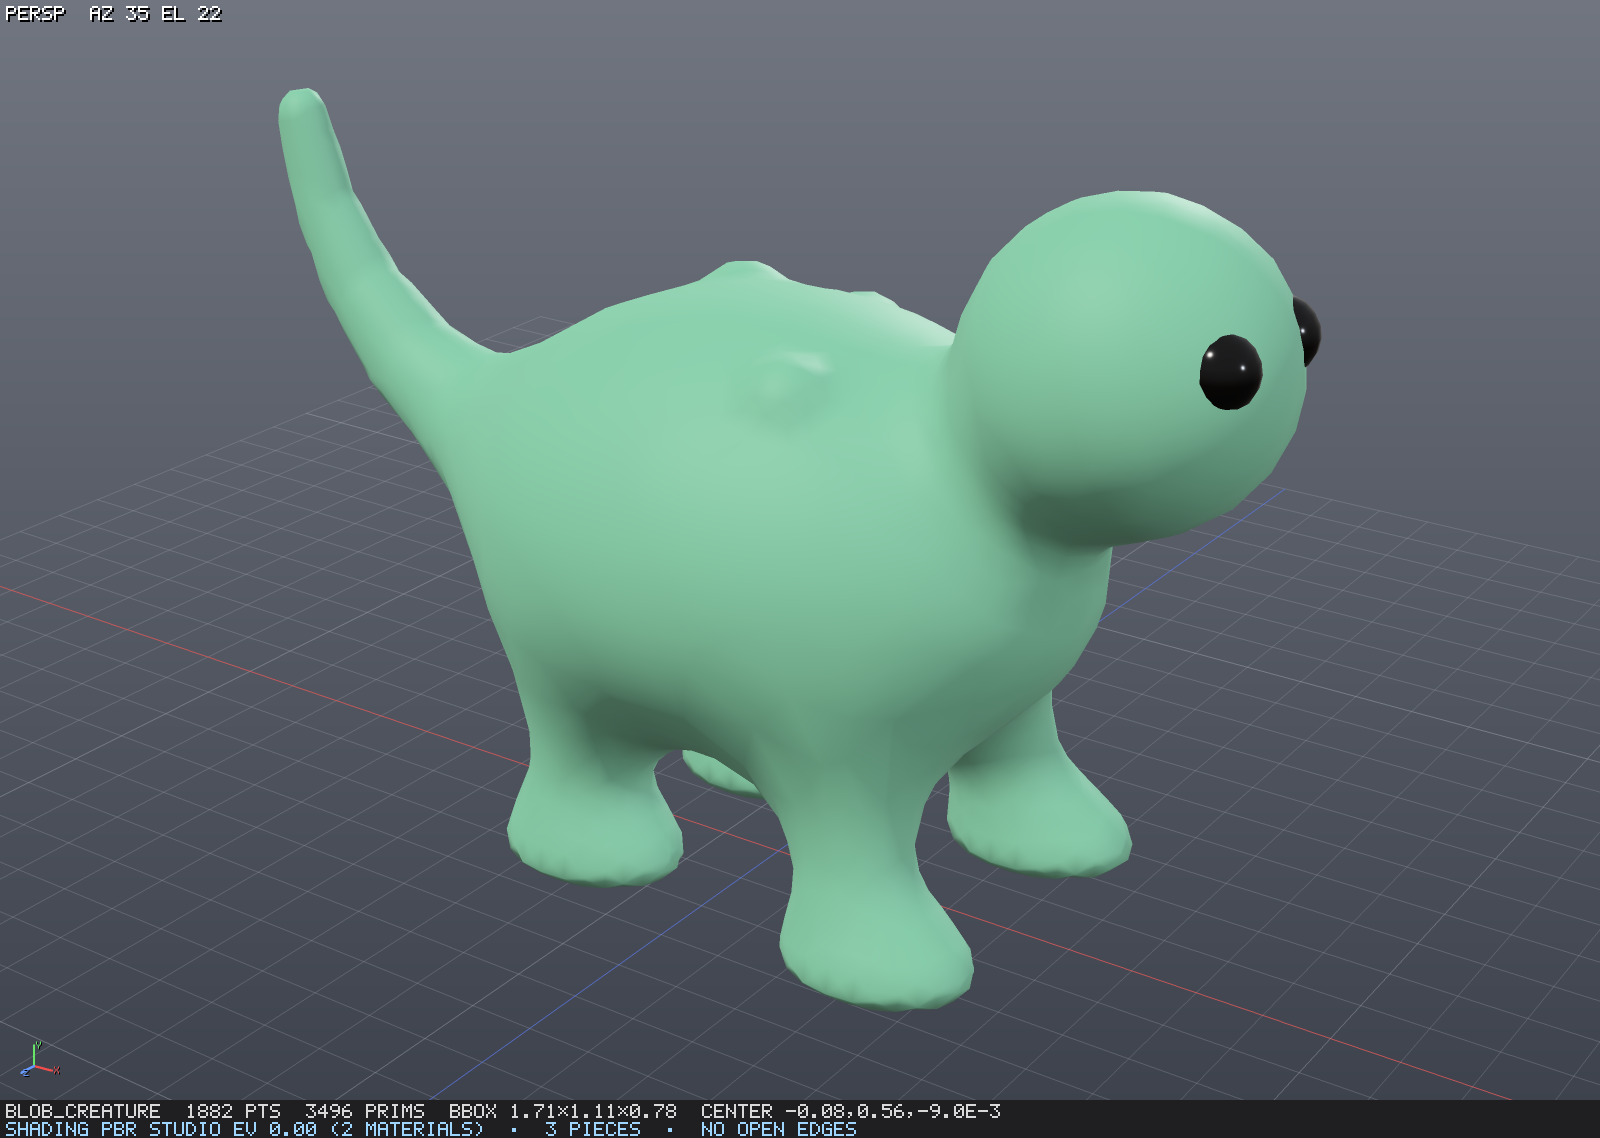
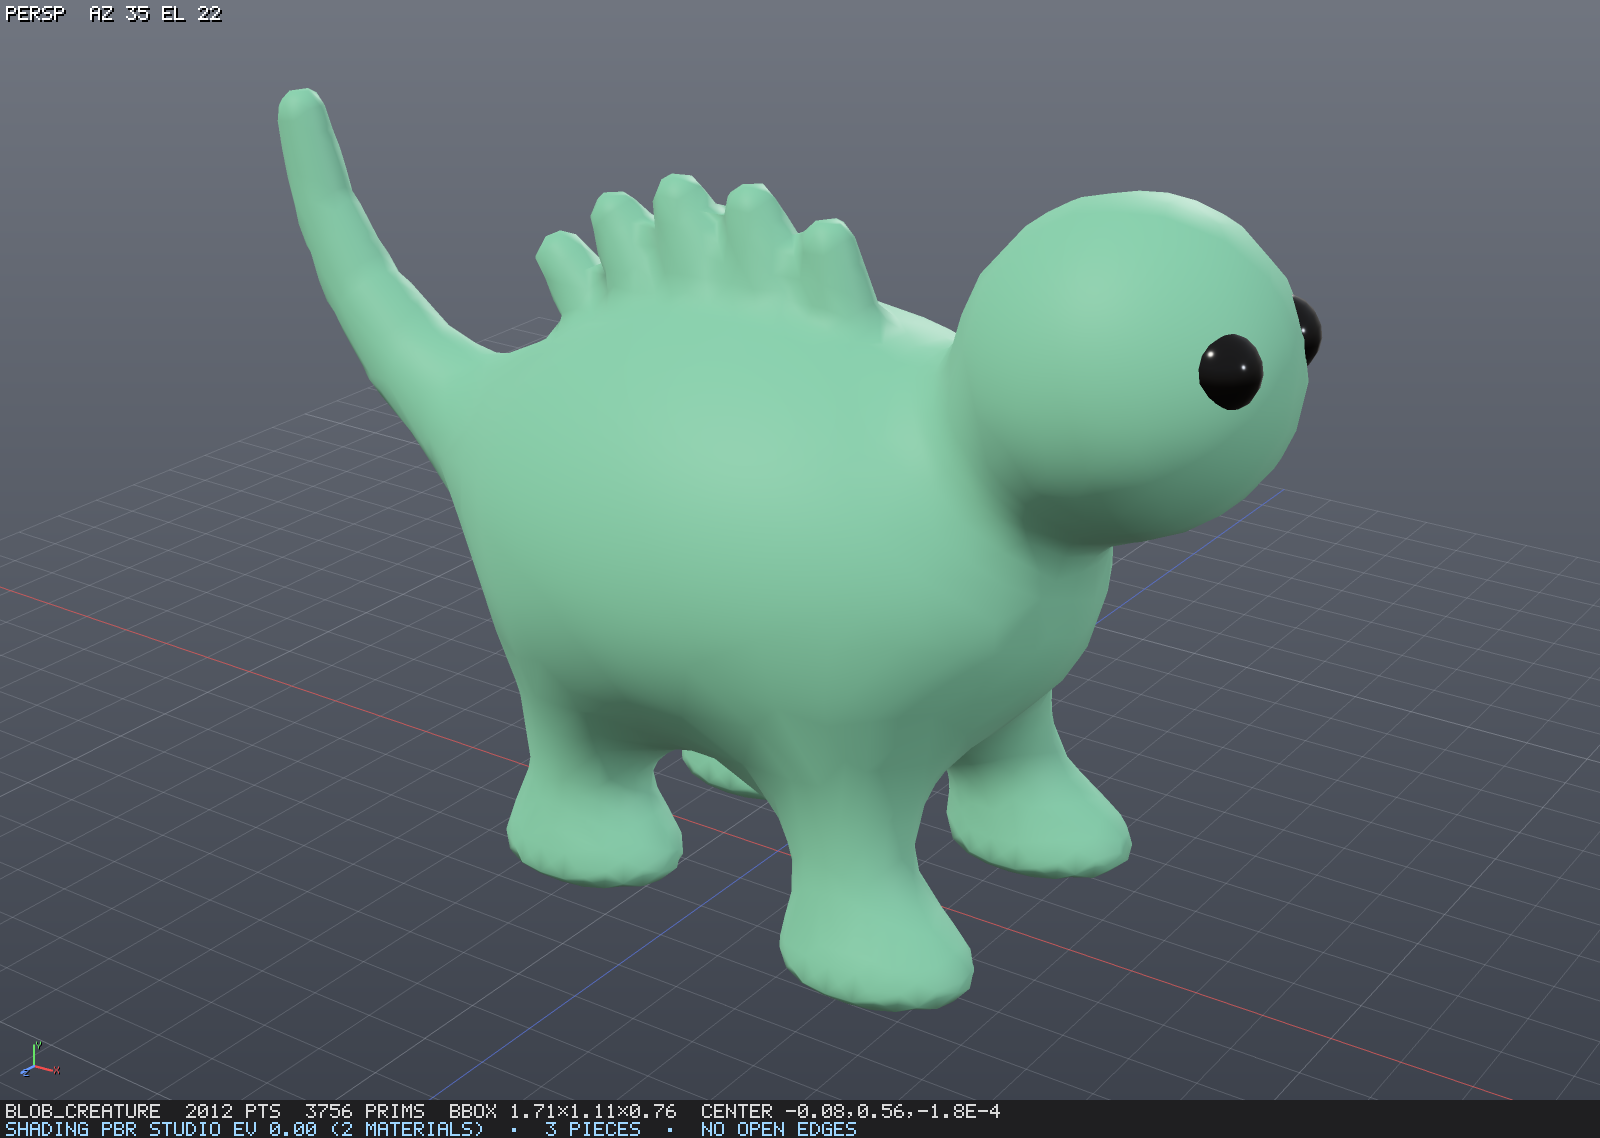
blob_creature: a row of rounded spines along the back replaces the random lumps
The bumps slider becomes spines (0 leaves them off); the seed now moves only the legs.

Changed region(s): [[0.3125, 0.1538, 0.5625, 0.3076]]

diff --git a/examples/blob_creature.md b/examples/blob_creature.md
@@ -9,9 +9,9 @@ two eyes, as a closed mesh.
 - legs: 2–8, default 4. Number of legs.
 - tail: 0–2, default 0.8. Length of the tail next to the body; 0 leaves it off.
 - blend: 0.02–0.4 m, default 0.15. How softly the parts melt into each other.
-- bumps: 0–1, default 0.2. Lumps on the skin.
+- spines: 0–1, default 0.5. Rounded spines in a row along the back; 0 leaves them off.
 - feature_size: 0.02–0.1 m, default 0.04. Size of the smallest feature kept.
-- seed: 0–9999, default 1. Changes the bumps and the pose of the legs.
+- seed: 0–9999, default 1. Changes the pose of the legs.
 
 ## Out
 - creature (mesh): the body as one closed piece with uv in a skin material, and two eyes.
@@ -21,5 +21,5 @@ two eyes, as a closed mesh.
 - standing: the creature stands on its feet, its lowest point on the ground.
 
 ## Look
-A friendly, rounded creature standing on stubby legs, its head and tail melting smoothly into the body, a few soft
-bumps on the skin and two dark eyes.
+A friendly, rounded creature standing on stubby legs, its head and tail melting smoothly into the body, a row of
+rounded spines along its back and two dark eyes.

diff --git a/docs/examples.md b/docs/examples.md
@@ -109,7 +109,7 @@ A rough, broken scan turned into a game-ready asset: holes filled, tangles remov
 
 A cartoon creature made of smooth blended shapes: a round body, a head, legs and a tail that melt into each other, and two eyes, as a closed mesh.
 
-- In: `body_size`, `head`, `legs`, `tail`, `blend`, `bumps`, `feature_size`, `seed`
+- In: `body_size`, `head`, `legs`, `tail`, `blend`, `spines`, `feature_size`, `seed`
 - Out: `creature` (mesh)
 
 ### [Cloth drape](../examples/cloth_drape.md) (`cloth_drape`)
